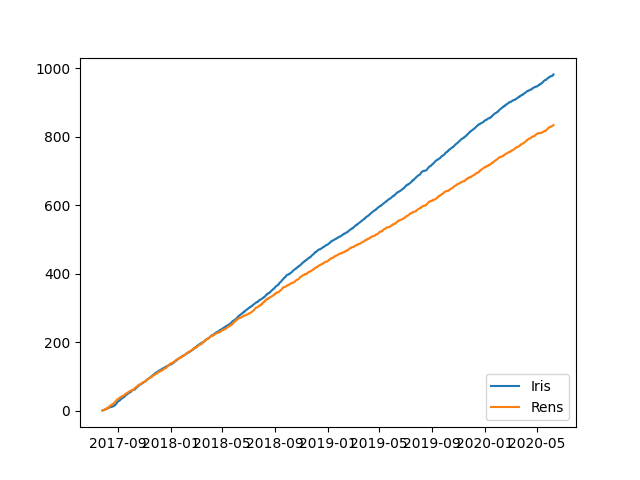
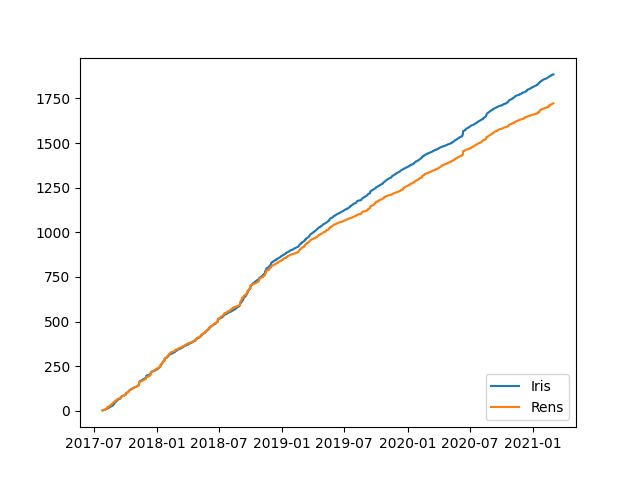
:art: Finishing touches on chat

diff --git a/chat/analyser.py b/chat/analyser.py
@@ -129,7 +129,7 @@ def build_plt(x, iris_y, rens_y):
     ax.plot(x, iris_y, color='tab:blue', label='Iris')
     ax.plot(x, rens_y, color='tab:orange', label='Rens')
     plt.legend(loc='lower right')
-    fig.savefig('test.png')
+    fig.savefig('test.pdf', format='pdf')
 
 
 def build_y(poops):
@@ -139,11 +139,6 @@ def build_y(poops):
         result[i] = total + elem
         total += elem
     return result
-
-
-def main2():
-    iris, rens = parse_file(FILENAME)
-    create_plot(iris, rens)
 
 
 def main():
@@ -166,6 +161,7 @@ def main():
     print("Average frequency:\n"
           "Iris: {:.2f} poops per day, Rens: {:.2f} poops per day"
           .format(1 / iris_frequency, 1 / rens_frequency))
+    create_plot(iris, rens)
 
 
 class Day(object):
@@ -189,4 +185,3 @@ class Day(object):
 
 if __name__ == "__main__":
     main()
-    # main2()

diff --git a/chat/converter.py b/chat/converter.py
@@ -11,12 +11,12 @@ import sqlite3
 
 # Relevant for files
 FILE_DIRECTORY = 'chats'
-FILENAME_INPUT = FILE_DIRECTORY + '/' + 'chat-rens.txt'
+FILENAME_INPUT = FILE_DIRECTORY + '/' + 'chat-iris.txt'
 FILENAME_DB = FILE_DIRECTORY + '/' + 'db.sqlite'
 FILENAME_DATA = FILE_DIRECTORY + '/' + 'messages'
 
 # Relevant for message format
-NAMES = {'Iris': ['Iris Bergers', 'Iris <3'], 'Rens': ['Rens Oliemans']}
+NAMES = {'Iris': ['Iris Bergers', 'Iris <3'], 'Rens': ['Rens Oliemans', 'Rens']}
 FORMATS = ['%d-%m-%y, %H:%M', '%d-%m-%Y %H:%M', '%Y-%m-%d %H:%M:%S',
            '%d/%m/%Y, %H:%M', '%m/%d/%y, %H:%M']
 # The \< and 3 are for the person name
